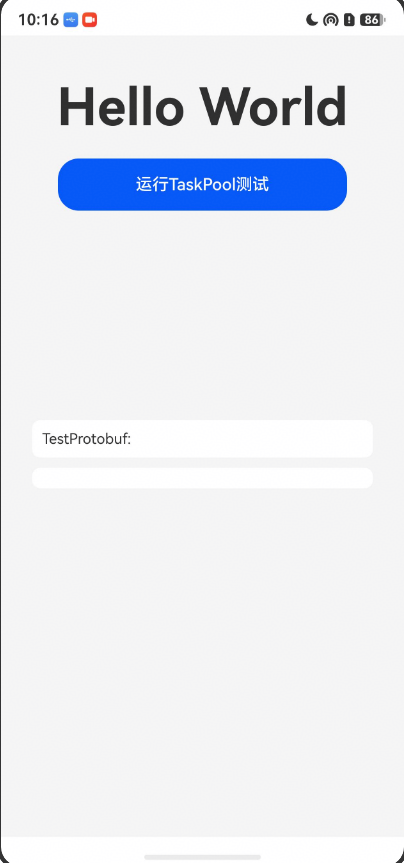
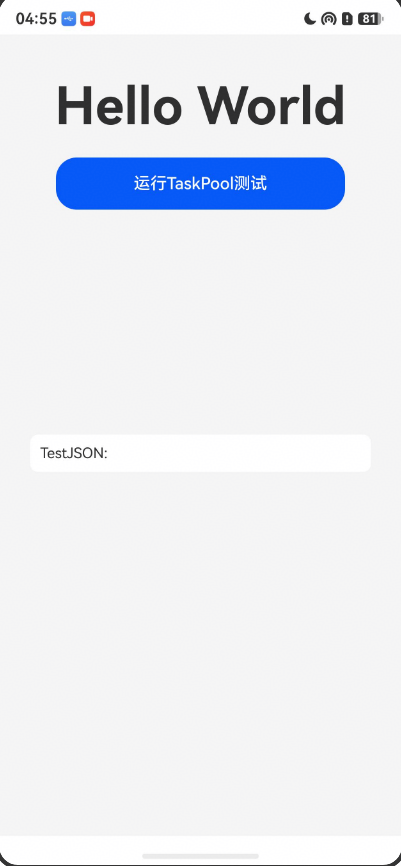
添加TurboTrans工程
Issue: https://gitcode.com/openharmony/applications_app_samples/issues/8859

diff --git a/code/DocsSample/ArkTS/ArkTsConcurrent/TurboTrans/hvigorfile.ts b/code/DocsSample/ArkTS/ArkTsConcurrent/TurboTrans/hvigorfile.ts
@@ -13,7 +13,6 @@
  * limitations under the License.
  */
 import { turboTransJsonPlugin } from '@hadss/turbo-trans-json-plugin';
-import { turboTransProtobufPlugin } from '@hadss/turbo-trans-protobuf-plugin';
 import { hvigor } from '@ohos/hvigor';
 import { appTasks } from '@ohos/hvigor-ohos-plugin';
 
@@ -28,13 +27,6 @@ export default {
         scanPaths: ['src/main/ets', 'src/ohosTest/ets'],
         preserveOriginalImports: false
       }
-    }),
-    turboTransProtobufPlugin({
-      saveDir: 'src/main/ets/protobuf',
-      ignoreModuleNames: ['TurboTransCore' , 'PerformanceBaseline' , 'TurboTransProtobufCommon'],
-      sendable: true,
-      debug: false,
-      scanDir: ['protobuf'],
     }),
   ]       /* Custom plugin to extend the functionality of Hvigor. */
 }

diff --git a/code/DocsSample/ArkTS/ArkTsConcurrent/TurboTrans/README.md b/code/DocsSample/ArkTS/ArkTsConcurrent/TurboTrans/README.md
@@ -2,10 +2,9 @@
 
 ### 介绍
 
-本示例主要演示了 `@hadss/turbo-trans-json`（下文简称 **turbotransJSON**）与 `@hadss/turbo-trans-protobuf`（下文简称 **turbotransProtobuf**）在 ArkTS 中操作Sendable对象的典型用法：
+本示例主要演示了 `@hadss/turbo-trans-json`（下文简称 **turbotransJSON**）在 ArkTS 中操作Sendable对象的典型用法：
  	 
 - 使用 **turbotransJSON** 将 JSON 字符串反序列化为对象，并转换为 **Sendable 对象** 在并发实例间传递。
-- 使用 **turbotransProtobuf** 通过 `.proto` 生成 **@Sendable** 的消息类，并进行编码/解码。
 
 ### 效果预览
 
@@ -16,7 +15,7 @@
 ### 使用说明
 
 1. 在主界面，点击运行Taskpool测试。
-2. 执行结果会即时反馈在屏幕中央，打印出TestProtobuf_Success和Test。
+2. 执行结果会即时反馈在屏幕中央，打印出Test。
 
 ### 工程目录
 
@@ -34,8 +33,6 @@ entry/src/
  │   │   ├── turbotrans_JSON
  │   │   │   ├── layout.ets                // JSON布局模型
  │   │   │   └── test1.ets                 // JSON序列化测试
- │   │   ├── turbotrans_protobuf
- │   │   │   └── test1.ets                 // Protobuf编解码测试
  │   ├── module.json5
  │   └── resources
  ├── generated
@@ -44,16 +41,16 @@ entry/src/
  │       │   └── SendableLayout.ets        // 自动生成的Sendable布局模型
  │       └── turbotrans_JSON
  │           └── layout.ets                // 自动生成的JSON布局模型
- ├── protobuf
- │   └── test_pb.proto                     // Protobuf定义文件
+ ├── mock
+ │   └── mock-config.json5                 // Mock配置文件
  ├── ohosTest
- │   ├── ets
- │   │   ├── test
- │   │       ├── Ability.test.ets          // 自动化测试代码
- │   │       └── List.test.ets             // 列表测试代码
- ├── test
- │   ├── List.test.ets                     // 列表单元测试
- │   └── LocalUnit.test.ets                 // 本地单元测试
+ │   └── ets
+ │       └── test
+ │           ├── Ability.test.ets          // 自动化测试代码
+ │           └── List.test.ets             // 列表测试代码
+ └── test
+     ├── List.test.ets                     // 列表单元测试
+     └── LocalUnit.test.ets                // 本地单元测试
 ```
 
 ### 相关权限

diff --git a/code/DocsSample/ArkTS/ArkTsConcurrent/TurboTrans/ohosTest.md b/code/DocsSample/ArkTS/ArkTsConcurrent/TurboTrans/ohosTest.md
@@ -1,4 +1,4 @@
 | 测试功能              | 预置条件 | 输入         | 预期输出     |是否自动|测试结果|
 |-------------------|------|------------|----------|--------------------------------|--------------------------------|
 | 拉起应用              | 	设备正常运行 | 	执行无需输入 	         | 成功拉起应用   |是|Pass|
-| TaskPool执行任务能力测试  | 执行用例 | 执行无需输入     | TestProtobuf: TestProtobuf_Success </br> Test |是|Pass|
+| TaskPool执行任务能力测试  | 执行用例 | 执行无需输入     | Test |是|Pass|
